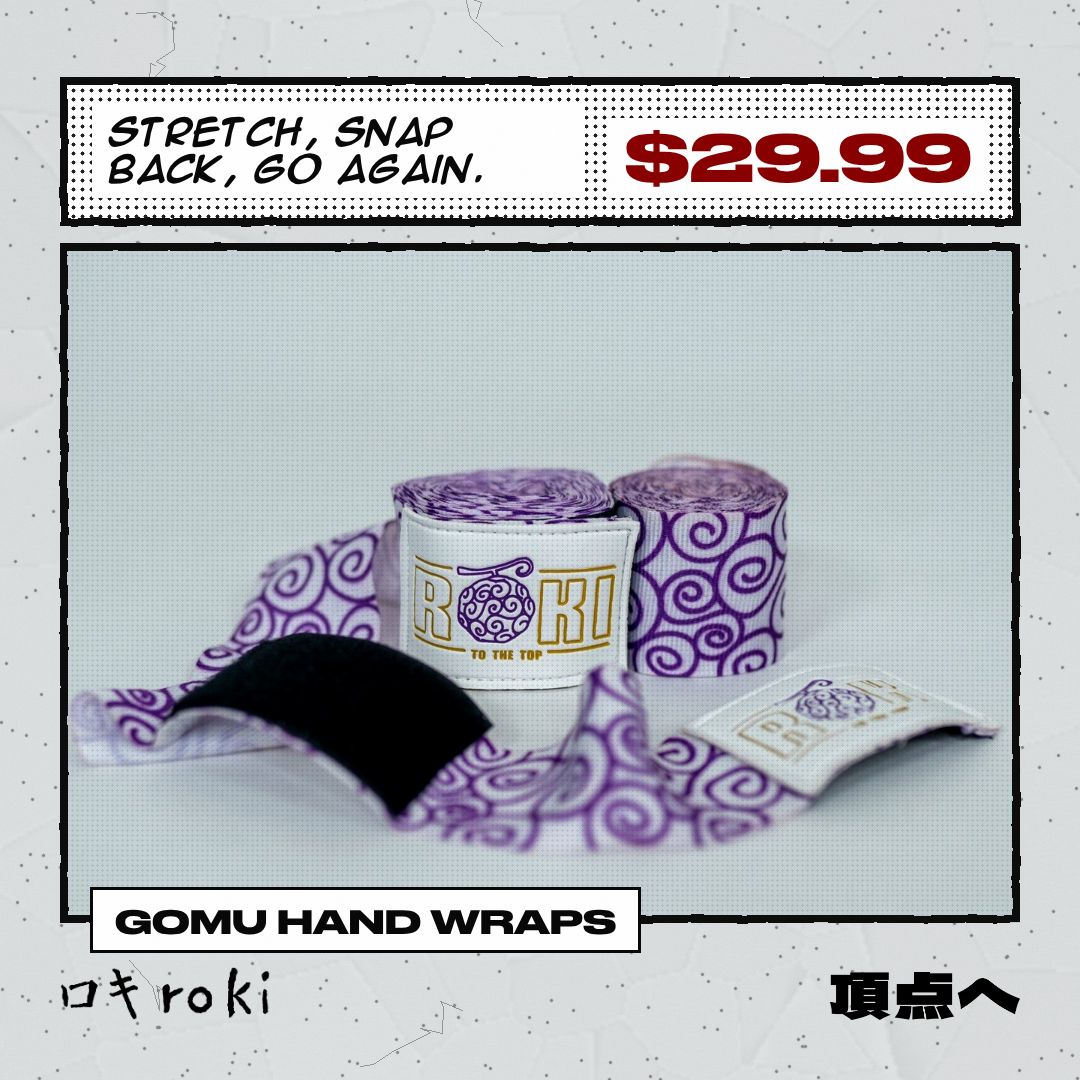
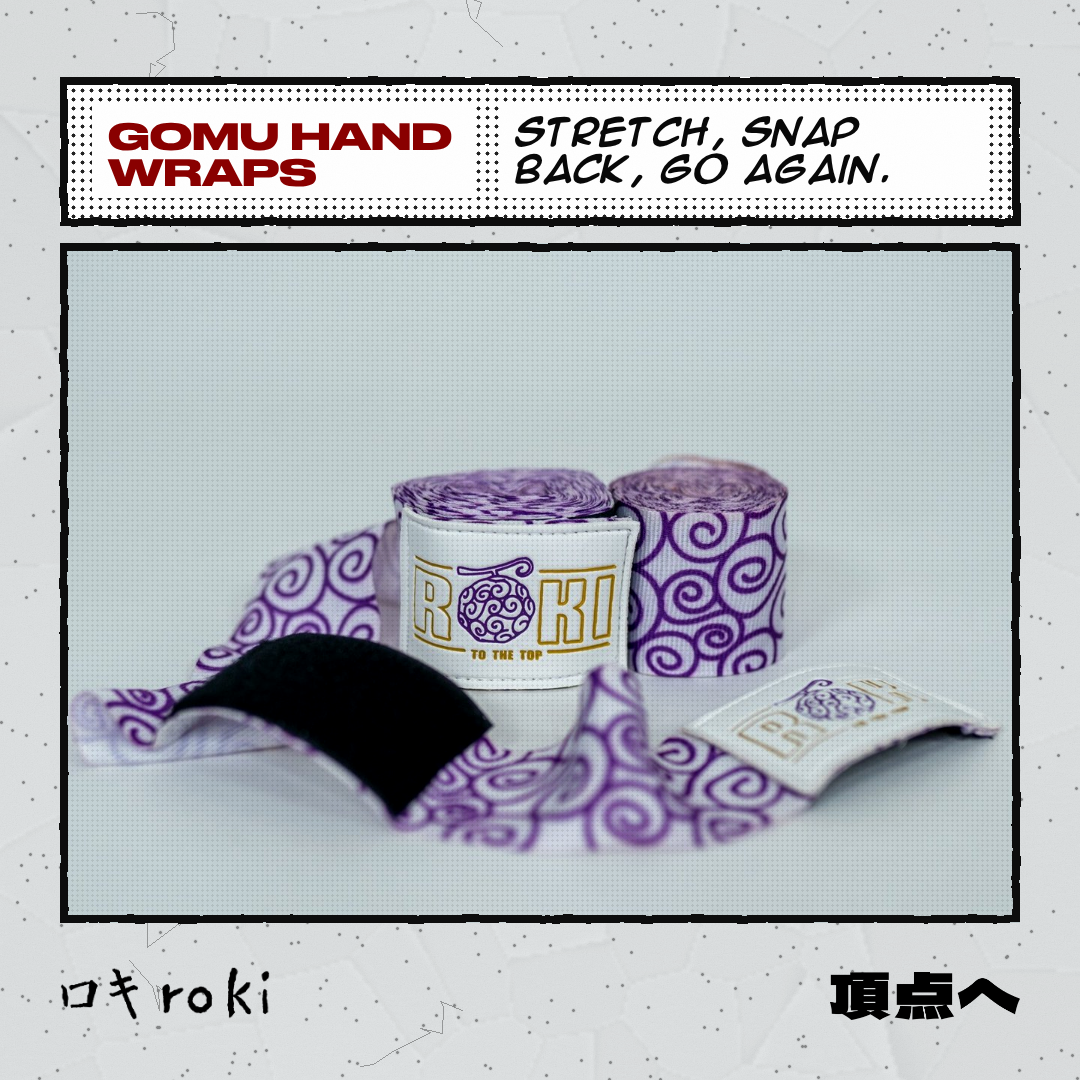
Revise AD-006 layout: product names replace prices
The carousel runs across currencies, so each price chip now carries the
product name in RokiRed, and the separate name caption on each hero photo
is removed so the name appears once. Motion and sound are pass-throughs
and are unchanged.

Claude-Session: https://claude.ai/code/session_012ToaCKfjMXucVavzk9q6An

Changed region(s): [[0.0917, 0.0917, 0.9167, 0.1833], [0.0611, 0.7944, 0.6111, 0.8861]]

diff --git a/ads/AD-006/layout/slides/slide-4.html b/ads/AD-006/layout/slides/slide-4.html
@@ -39,7 +39,9 @@ font:700 32px/1.02 var(--font-display);letter-spacing:0}
 .cell>.pn{position:relative;width:100%;height:100%}
 .pn.text{display:block;padding:28px 32px;height:auto!important}
 .pn.text .stackcopy{display:flex;flex-direction:column;gap:14px;align-items:flex-start}
-.pn.text .inline{display:flex;align-items:flex-end;justify-content:space-between;gap:24px}
+.pn.text .inline{display:flex;align-items:center;justify-content:space-between;gap:24px}
+.pn.text .inline .pname{max-width:540px}
+.chip.pname{font:700 36px/1 var(--font-display);color:var(--RokiRed);padding:12px 16px 8px}
 .cap{bottom:-30px;left:30px}
 .pn>img.ht{position:absolute;inset:0;width:100%;height:100%;object-fit:cover}
 
@@ -52,14 +54,14 @@ font:700 32px/1.02 var(--font-display);letter-spacing:0}
 #grainA{position:absolute;inset:0;z-index:1;pointer-events:none;mix-blend-mode:multiply;opacity:.12}
 body.dark .gr,body.dark .mark{filter:invert(1);mix-blend-mode:screen}
 body.dark #grainA{mix-blend-mode:screen;opacity:.08}
-.chip.price{color:var(--RokiRed)}.end .cta{color:var(--RokiRed)!important}</style></head><body style="--ground:var(--paper);--on:var(--ink);--panel:var(--ink);--pw:8px;--accent:var(--RokiRed);--cap-bg:var(--paper);--cap-on:var(--ink)"><svg width="0" height="0" style="position:absolute"><defs>
+.end .cta{color:var(--RokiRed)!important}</style></head><body style="--ground:var(--paper);--on:var(--ink);--panel:var(--ink);--pw:8px;--accent:var(--RokiRed);--cap-bg:var(--paper);--cap-on:var(--ink)"><svg width="0" height="0" style="position:absolute"><defs>
 <filter id="grainf" x="0" y="0" width="100%" height="100%"><feTurbulence type="fractalNoise" baseFrequency=".9" numOctaves="2" seed="7"/>
 <feColorMatrix type="saturate" values="0"/><feComponentTransfer><feFuncA type="table" tableValues="0 .55"/></feComponentTransfer></filter>
 <filter id="paperf" x="0" y="0" width="100%" height="100%"><feTurbulence type="fractalNoise" baseFrequency=".012" numOctaves="3" seed="4" result="n"/>
 <feDiffuseLighting in="n" surfaceScale="2" lighting-color="#fff"><feDistantLight azimuth="235" elevation="58"/></feDiffuseLighting></filter>
 <filter id="rough" x="-3%" y="-3%" width="106%" height="106%"><feTurbulence type="fractalNoise" baseFrequency=".035" numOctaves="3" seed="3" result="n"/>
 <feDisplacementMap in="SourceGraphic" in2="n" scale="3" xChannelSelector="R" yChannelSelector="G"/></filter>
-</defs></svg><img class="stock" src="../assets/grunge/paper/cool_0.jpg"><img class="gr" src="../assets/grunge/grunge/dust_1.png" style="opacity:0.4"><img class="mark" src="../assets/grunge/splatter/splat_1_red.png" style="left:850px;top:-130px;width:340px;height:340px;object-fit:contain;opacity:0.85"><div id="grainA" style="filter:url(#grainf)"></div><div class="stack"><div class="row"><div class="cell" style="width:562px;height:330px"><div class="pn"><img class="ph" src="../assets/shirt-1.jpg" style="object-position:50% 50%;"><div class="tone"></div></div><div class="cap" style="max-width:502px">KAMOGAWA BOXING GYM TRAINING SHIRT</div></div><div class="cell" style="width:374px;height:330px"><div class="pn"><img class="ph" src="../assets/shirt-2.jpg" style="object-position:55% 55%;transform:scale(1.4);transform-origin:55% 55%;"><div class="tone"></div></div></div></div><div class="row"><div class="cell" style="width:960px;height:220px"><div class="pn"><img class="ht" src="../assets/ht/shirt-life-sq.png"></div></div></div><div class="row"><div class="cell" style="width:960px"><div class="pn text screentone"><div class="inline"><span class="chip kick">For training days.</span><span class="chip price">$64.95</span></div></div></div></div></div><img class="logo" src="../assets/wordmark-black.png" style="left:60px;top:967px;width:210px"><img class="logo" src="../assets/choten-black.png" style="right:60px;top:972px;width:190px"><svg width="0" height="0" style="position:absolute"><filter id="roughf" x="-2%" y="-2%" width="104%" height="104%">
+</defs></svg><img class="stock" src="../assets/grunge/paper/cool_0.jpg"><img class="gr" src="../assets/grunge/grunge/dust_1.png" style="opacity:0.4"><img class="mark" src="../assets/grunge/splatter/splat_1_red.png" style="left:850px;top:-130px;width:340px;height:340px;object-fit:contain;opacity:0.85"><div id="grainA" style="filter:url(#grainf)"></div><div class="stack"><div class="row"><div class="cell" style="width:562px;height:330px"><div class="pn"><img class="ph" src="../assets/shirt-1.jpg" style="object-position:50% 50%;"><div class="tone"></div></div></div><div class="cell" style="width:374px;height:330px"><div class="pn"><img class="ph" src="../assets/shirt-2.jpg" style="object-position:55% 55%;transform:scale(1.4);transform-origin:55% 55%;"><div class="tone"></div></div></div></div><div class="row"><div class="cell" style="width:960px;height:220px"><div class="pn"><img class="ht" src="../assets/ht/shirt-life-sq.png"></div></div></div><div class="row"><div class="cell" style="width:960px"><div class="pn text screentone"><div class="inline"><span class="chip pname">KAMOGAWA BOXING GYM TRAINING SHIRT</span><span class="chip kick">For training days.</span></div></div></div></div></div><img class="logo" src="../assets/wordmark-black.png" style="left:60px;top:967px;width:210px"><img class="logo" src="../assets/choten-black.png" style="right:60px;top:972px;width:190px"><svg width="0" height="0" style="position:absolute"><filter id="roughf" x="-2%" y="-2%" width="104%" height="104%">
 <feTurbulence type="fractalNoise" baseFrequency=".04" numOctaves="3" seed="11" result="n"/>
 <feDisplacementMap in="SourceGraphic" in2="n" scale="3" xChannelSelector="R" yChannelSelector="G"/></filter></svg><div id="grain" style="filter:url(#grainf)"></div><script>
 function fit(el,maxW,lo=40,hi=140){while(hi-lo>1){const m=(lo+hi)>>1;el.style.fontSize=m+'px';el.scrollWidth<=maxW?lo=m:hi=m}el.style.fontSize=lo+'px'}

diff --git a/ads/AD-006/layout/slides/slide-6.html b/ads/AD-006/layout/slides/slide-6.html
@@ -39,7 +39,9 @@ font:700 32px/1.02 var(--font-display);letter-spacing:0}
 .cell>.pn{position:relative;width:100%;height:100%}
 .pn.text{display:block;padding:28px 32px;height:auto!important}
 .pn.text .stackcopy{display:flex;flex-direction:column;gap:14px;align-items:flex-start}
-.pn.text .inline{display:flex;align-items:flex-end;justify-content:space-between;gap:24px}
+.pn.text .inline{display:flex;align-items:center;justify-content:space-between;gap:24px}
+.pn.text .inline .pname{max-width:540px}
+.chip.pname{font:700 36px/1 var(--font-display);color:var(--RokiRed);padding:12px 16px 8px}
 .cap{bottom:-30px;left:30px}
 .pn>img.ht{position:absolute;inset:0;width:100%;height:100%;object-fit:cover}
 
@@ -52,14 +54,14 @@ font:700 32px/1.02 var(--font-display);letter-spacing:0}
 #grainA{position:absolute;inset:0;z-index:1;pointer-events:none;mix-blend-mode:multiply;opacity:.12}
 body.dark .gr,body.dark .mark{filter:invert(1);mix-blend-mode:screen}
 body.dark #grainA{mix-blend-mode:screen;opacity:.08}
-.chip.price{color:var(--RokiRed)}.end .cta{color:var(--RokiRed)!important}</style></head><body style="--ground:var(--studio-grey);--on:var(--ink);--panel:var(--ink);--pw:8px;--accent:var(--RokiRed);--cap-bg:var(--paper);--cap-on:var(--ink)"><svg width="0" height="0" style="position:absolute"><defs>
+.end .cta{color:var(--RokiRed)!important}</style></head><body style="--ground:var(--studio-grey);--on:var(--ink);--panel:var(--ink);--pw:8px;--accent:var(--RokiRed);--cap-bg:var(--paper);--cap-on:var(--ink)"><svg width="0" height="0" style="position:absolute"><defs>
 <filter id="grainf" x="0" y="0" width="100%" height="100%"><feTurbulence type="fractalNoise" baseFrequency=".9" numOctaves="2" seed="7"/>
 <feColorMatrix type="saturate" values="0"/><feComponentTransfer><feFuncA type="table" tableValues="0 .55"/></feComponentTransfer></filter>
 <filter id="paperf" x="0" y="0" width="100%" height="100%"><feTurbulence type="fractalNoise" baseFrequency=".012" numOctaves="3" seed="4" result="n"/>
 <feDiffuseLighting in="n" surfaceScale="2" lighting-color="#fff"><feDistantLight azimuth="235" elevation="58"/></feDiffuseLighting></filter>
 <filter id="rough" x="-3%" y="-3%" width="106%" height="106%"><feTurbulence type="fractalNoise" baseFrequency=".035" numOctaves="3" seed="3" result="n"/>
 <feDisplacementMap in="SourceGraphic" in2="n" scale="3" xChannelSelector="R" yChannelSelector="G"/></filter>
-</defs></svg><img class="stock" src="../assets/grunge/paper/cool_2.jpg"><img class="gr" src="../assets/grunge/grunge/dust_1.png" style="opacity:0.4"><img class="mark" src="../assets/grunge/splatter/splat_2_red.png" style="left:-110px;top:-130px;width:340px;height:340px;object-fit:contain;opacity:0.85"><div id="grainA" style="filter:url(#grainf)"></div><div class="stack"><div class="row"><div class="cell" style="width:960px;height:200px"><div class="pn"><img class="ht" src="../assets/ht/straps-life-sq.png"></div></div></div><div class="row"><div class="cell" style="width:960px;height:460px"><div class="pn"><img class="ph" src="../assets/straps-1.jpg" style="object-position:50% 50%;"><div class="tone"></div></div><div class="cap" style="max-width:640px">THE FRUIT LIFTING STRAPS</div></div></div><div class="row"><div class="cell" style="width:960px"><div class="pn text screentone"><div class="inline"><span class="chip kick">For lifters who refuse to let go.</span><span class="chip price">$35.00</span></div></div></div></div></div><img class="logo" src="../assets/wordmark-black.png" style="left:60px;top:967px;width:210px"><img class="logo" src="../assets/choten-black.png" style="right:60px;top:972px;width:190px"><svg width="0" height="0" style="position:absolute"><filter id="roughf" x="-2%" y="-2%" width="104%" height="104%">
+</defs></svg><img class="stock" src="../assets/grunge/paper/cool_2.jpg"><img class="gr" src="../assets/grunge/grunge/dust_1.png" style="opacity:0.4"><img class="mark" src="../assets/grunge/splatter/splat_2_red.png" style="left:-110px;top:-130px;width:340px;height:340px;object-fit:contain;opacity:0.85"><div id="grainA" style="filter:url(#grainf)"></div><div class="stack"><div class="row"><div class="cell" style="width:960px;height:200px"><div class="pn"><img class="ht" src="../assets/ht/straps-life-sq.png"></div></div></div><div class="row"><div class="cell" style="width:960px;height:460px"><div class="pn"><img class="ph" src="../assets/straps-1.jpg" style="object-position:50% 50%;"><div class="tone"></div></div></div></div><div class="row"><div class="cell" style="width:960px"><div class="pn text screentone"><div class="inline"><span class="chip pname">THE FRUIT LIFTING STRAPS</span><span class="chip kick">For lifters who refuse to let go.</span></div></div></div></div></div><img class="logo" src="../assets/wordmark-black.png" style="left:60px;top:967px;width:210px"><img class="logo" src="../assets/choten-black.png" style="right:60px;top:972px;width:190px"><svg width="0" height="0" style="position:absolute"><filter id="roughf" x="-2%" y="-2%" width="104%" height="104%">
 <feTurbulence type="fractalNoise" baseFrequency=".04" numOctaves="3" seed="11" result="n"/>
 <feDisplacementMap in="SourceGraphic" in2="n" scale="3" xChannelSelector="R" yChannelSelector="G"/></filter></svg><div id="grain" style="filter:url(#grainf)"></div><script>
 function fit(el,maxW,lo=40,hi=140){while(hi-lo>1){const m=(lo+hi)>>1;el.style.fontSize=m+'px';el.scrollWidth<=maxW?lo=m:hi=m}el.style.fontSize=lo+'px'}

diff --git a/ads/AD-006/layout/slides/slide-2.html b/ads/AD-006/layout/slides/slide-2.html
@@ -39,7 +39,9 @@ font:700 32px/1.02 var(--font-display);letter-spacing:0}
 .cell>.pn{position:relative;width:100%;height:100%}
 .pn.text{display:block;padding:28px 32px;height:auto!important}
 .pn.text .stackcopy{display:flex;flex-direction:column;gap:14px;align-items:flex-start}
-.pn.text .inline{display:flex;align-items:flex-end;justify-content:space-between;gap:24px}
+.pn.text .inline{display:flex;align-items:center;justify-content:space-between;gap:24px}
+.pn.text .inline .pname{max-width:540px}
+.chip.pname{font:700 36px/1 var(--font-display);color:var(--RokiRed);padding:12px 16px 8px}
 .cap{bottom:-30px;left:30px}
 .pn>img.ht{position:absolute;inset:0;width:100%;height:100%;object-fit:cover}
 
@@ -52,14 +54,14 @@ font:700 32px/1.02 var(--font-display);letter-spacing:0}
 #grainA{position:absolute;inset:0;z-index:1;pointer-events:none;mix-blend-mode:multiply;opacity:.12}
 body.dark .gr,body.dark .mark{filter:invert(1);mix-blend-mode:screen}
 body.dark #grainA{mix-blend-mode:screen;opacity:.08}
-.chip.price{color:var(--RokiRed)}.end .cta{color:var(--RokiRed)!important}</style></head><body class="dark" style="--ground:var(--ink);--on:var(--ink);--panel:var(--paper);--pw:8px;--accent:var(--signal-red);--cap-bg:var(--paper);--cap-on:var(--ink)"><svg width="0" height="0" style="position:absolute"><defs>
+.end .cta{color:var(--RokiRed)!important}</style></head><body class="dark" style="--ground:var(--ink);--on:var(--ink);--panel:var(--paper);--pw:8px;--accent:var(--signal-red);--cap-bg:var(--paper);--cap-on:var(--ink)"><svg width="0" height="0" style="position:absolute"><defs>
 <filter id="grainf" x="0" y="0" width="100%" height="100%"><feTurbulence type="fractalNoise" baseFrequency=".9" numOctaves="2" seed="7"/>
 <feColorMatrix type="saturate" values="0"/><feComponentTransfer><feFuncA type="table" tableValues="0 .55"/></feComponentTransfer></filter>
 <filter id="paperf" x="0" y="0" width="100%" height="100%"><feTurbulence type="fractalNoise" baseFrequency=".012" numOctaves="3" seed="4" result="n"/>
 <feDiffuseLighting in="n" surfaceScale="2" lighting-color="#fff"><feDistantLight azimuth="235" elevation="58"/></feDiffuseLighting></filter>
 <filter id="rough" x="-3%" y="-3%" width="106%" height="106%"><feTurbulence type="fractalNoise" baseFrequency=".035" numOctaves="3" seed="3" result="n"/>
 <feDisplacementMap in="SourceGraphic" in2="n" scale="3" xChannelSelector="R" yChannelSelector="G"/></filter>
-</defs></svg><img class="gr" src="../assets/grunge/grunge/dust_1.png" style="opacity:0.3"><img class="mark" src="../assets/grunge/splatter/splat_0.png" style="left:-110px;top:-130px;width:340px;height:340px;object-fit:contain;opacity:0.45"><div id="grainA" style="filter:url(#grainf)"></div><div class="stack"><div class="row"><div class="cell" style="width:960px;height:480px"><div class="pn"><img class="ph" src="../assets/kbg-wraps-2.jpg" style="object-position:50% 55%;"><div class="tone"></div></div><div class="cap" style="max-width:640px">KAMOGAWA BOXING GYM HAND WRAPS</div></div></div><div class="row"><div class="cell" style="width:960px;height:200px"><div class="pn"><img class="ht" src="../assets/ht/kbg-life-sq.png"></div></div></div><div class="row"><div class="cell" style="width:960px"><div class="pn text screentone"><div class="inline"><span class="chip kick">No. 1 seller. Built for boxers.</span><span class="chip price">$29.99</span></div></div></div></div></div><img class="logo" src="../assets/wordmark-white.png" style="left:60px;top:967px;width:210px"><img class="logo" src="../assets/choten-white.png" style="right:60px;top:972px;width:190px"><svg width="0" height="0" style="position:absolute"><filter id="roughf" x="-2%" y="-2%" width="104%" height="104%">
+</defs></svg><img class="gr" src="../assets/grunge/grunge/dust_1.png" style="opacity:0.3"><img class="mark" src="../assets/grunge/splatter/splat_0.png" style="left:-110px;top:-130px;width:340px;height:340px;object-fit:contain;opacity:0.45"><div id="grainA" style="filter:url(#grainf)"></div><div class="stack"><div class="row"><div class="cell" style="width:960px;height:480px"><div class="pn"><img class="ph" src="../assets/kbg-wraps-2.jpg" style="object-position:50% 55%;"><div class="tone"></div></div></div></div><div class="row"><div class="cell" style="width:960px;height:200px"><div class="pn"><img class="ht" src="../assets/ht/kbg-life-sq.png"></div></div></div><div class="row"><div class="cell" style="width:960px"><div class="pn text screentone"><div class="inline"><span class="chip pname">KAMOGAWA BOXING GYM HAND WRAPS</span><span class="chip kick">No. 1 seller. Built for boxers.</span></div></div></div></div></div><img class="logo" src="../assets/wordmark-white.png" style="left:60px;top:967px;width:210px"><img class="logo" src="../assets/choten-white.png" style="right:60px;top:972px;width:190px"><svg width="0" height="0" style="position:absolute"><filter id="roughf" x="-2%" y="-2%" width="104%" height="104%">
 <feTurbulence type="fractalNoise" baseFrequency=".04" numOctaves="3" seed="11" result="n"/>
 <feDisplacementMap in="SourceGraphic" in2="n" scale="3" xChannelSelector="R" yChannelSelector="G"/></filter></svg><div id="grain" style="filter:url(#grainf)"></div><script>
 function fit(el,maxW,lo=40,hi=140){while(hi-lo>1){const m=(lo+hi)>>1;el.style.fontSize=m+'px';el.scrollWidth<=maxW?lo=m:hi=m}el.style.fontSize=lo+'px'}

diff --git a/ads/AD-006/layout/slides/slide-5.html b/ads/AD-006/layout/slides/slide-5.html
@@ -39,7 +39,9 @@ font:700 32px/1.02 var(--font-display);letter-spacing:0}
 .cell>.pn{position:relative;width:100%;height:100%}
 .pn.text{display:block;padding:28px 32px;height:auto!important}
 .pn.text .stackcopy{display:flex;flex-direction:column;gap:14px;align-items:flex-start}
-.pn.text .inline{display:flex;align-items:flex-end;justify-content:space-between;gap:24px}
+.pn.text .inline{display:flex;align-items:center;justify-content:space-between;gap:24px}
+.pn.text .inline .pname{max-width:540px}
+.chip.pname{font:700 36px/1 var(--font-display);color:var(--RokiRed);padding:12px 16px 8px}
 .cap{bottom:-30px;left:30px}
 .pn>img.ht{position:absolute;inset:0;width:100%;height:100%;object-fit:cover}
 
@@ -52,14 +54,14 @@ font:700 32px/1.02 var(--font-display);letter-spacing:0}
 #grainA{position:absolute;inset:0;z-index:1;pointer-events:none;mix-blend-mode:multiply;opacity:.12}
 body.dark .gr,body.dark .mark{filter:invert(1);mix-blend-mode:screen}
 body.dark #grainA{mix-blend-mode:screen;opacity:.08}
-.chip.price{color:var(--RokiRed)}.end .cta{color:var(--RokiRed)!important}</style></head><body class="dark" style="--ground:var(--ink);--on:var(--ink);--panel:var(--paper);--pw:8px;--accent:var(--signal-red);--cap-bg:var(--paper);--cap-on:var(--ink)"><svg width="0" height="0" style="position:absolute"><defs>
+.end .cta{color:var(--RokiRed)!important}</style></head><body class="dark" style="--ground:var(--ink);--on:var(--ink);--panel:var(--paper);--pw:8px;--accent:var(--signal-red);--cap-bg:var(--paper);--cap-on:var(--ink)"><svg width="0" height="0" style="position:absolute"><defs>
 <filter id="grainf" x="0" y="0" width="100%" height="100%"><feTurbulence type="fractalNoise" baseFrequency=".9" numOctaves="2" seed="7"/>
 <feColorMatrix type="saturate" values="0"/><feComponentTransfer><feFuncA type="table" tableValues="0 .55"/></feComponentTransfer></filter>
 <filter id="paperf" x="0" y="0" width="100%" height="100%"><feTurbulence type="fractalNoise" baseFrequency=".012" numOctaves="3" seed="4" result="n"/>
 <feDiffuseLighting in="n" surfaceScale="2" lighting-color="#fff"><feDistantLight azimuth="235" elevation="58"/></feDiffuseLighting></filter>
 <filter id="rough" x="-3%" y="-3%" width="106%" height="106%"><feTurbulence type="fractalNoise" baseFrequency=".035" numOctaves="3" seed="3" result="n"/>
 <feDisplacementMap in="SourceGraphic" in2="n" scale="3" xChannelSelector="R" yChannelSelector="G"/></filter>
-</defs></svg><img class="gr" src="../assets/grunge/grunge/dust_0.png" style="opacity:0.3"><div id="grainA" style="filter:url(#grainf)"></div><div class="stack"><div class="row"><div class="cell" style="width:562px;height:640px"><div class="pn"><img class="ph" src="../assets/shorts-1.jpg" style="object-position:50% 50%;"><div class="tone"></div></div><div class="cap" style="max-width:502px">IPPO FIGHT SHORTS</div></div><div class="cell" style="width:374px;height:640px"><div class="pn"><img class="ph" src="../assets/shorts-2.jpg" style="object-position:50% 55%;transform:scale(1.3);transform-origin:50% 55%;"><div class="tone"></div></div></div></div><div class="row"><div class="cell" style="width:960px"><div class="pn text screentone"><div class="inline"><span class="chip kick">Made for fight training.</span><span class="chip price">$99.95</span></div></div></div></div></div><img class="logo" src="../assets/wordmark-white.png" style="left:60px;top:967px;width:210px"><img class="logo" src="../assets/choten-white.png" style="right:60px;top:972px;width:190px"><svg width="0" height="0" style="position:absolute"><filter id="roughf" x="-2%" y="-2%" width="104%" height="104%">
+</defs></svg><img class="gr" src="../assets/grunge/grunge/dust_0.png" style="opacity:0.3"><div id="grainA" style="filter:url(#grainf)"></div><div class="stack"><div class="row"><div class="cell" style="width:562px;height:640px"><div class="pn"><img class="ph" src="../assets/shorts-1.jpg" style="object-position:50% 50%;"><div class="tone"></div></div></div><div class="cell" style="width:374px;height:640px"><div class="pn"><img class="ph" src="../assets/shorts-2.jpg" style="object-position:50% 55%;transform:scale(1.3);transform-origin:50% 55%;"><div class="tone"></div></div></div></div><div class="row"><div class="cell" style="width:960px"><div class="pn text screentone"><div class="inline"><span class="chip pname">IPPO FIGHT SHORTS</span><span class="chip kick">Made for fight training.</span></div></div></div></div></div><img class="logo" src="../assets/wordmark-white.png" style="left:60px;top:967px;width:210px"><img class="logo" src="../assets/choten-white.png" style="right:60px;top:972px;width:190px"><svg width="0" height="0" style="position:absolute"><filter id="roughf" x="-2%" y="-2%" width="104%" height="104%">
 <feTurbulence type="fractalNoise" baseFrequency=".04" numOctaves="3" seed="11" result="n"/>
 <feDisplacementMap in="SourceGraphic" in2="n" scale="3" xChannelSelector="R" yChannelSelector="G"/></filter></svg><div id="grain" style="filter:url(#grainf)"></div><script>
 function fit(el,maxW,lo=40,hi=140){while(hi-lo>1){const m=(lo+hi)>>1;el.style.fontSize=m+'px';el.scrollWidth<=maxW?lo=m:hi=m}el.style.fontSize=lo+'px'}

diff --git a/ads/AD-006/layout/slides/slide-7.html b/ads/AD-006/layout/slides/slide-7.html
@@ -39,7 +39,9 @@ font:700 32px/1.02 var(--font-display);letter-spacing:0}
 .cell>.pn{position:relative;width:100%;height:100%}
 .pn.text{display:block;padding:28px 32px;height:auto!important}
 .pn.text .stackcopy{display:flex;flex-direction:column;gap:14px;align-items:flex-start}
-.pn.text .inline{display:flex;align-items:flex-end;justify-content:space-between;gap:24px}
+.pn.text .inline{display:flex;align-items:center;justify-content:space-between;gap:24px}
+.pn.text .inline .pname{max-width:540px}
+.chip.pname{font:700 36px/1 var(--font-display);color:var(--RokiRed);padding:12px 16px 8px}
 .cap{bottom:-30px;left:30px}
 .pn>img.ht{position:absolute;inset:0;width:100%;height:100%;object-fit:cover}
 
@@ -52,14 +54,14 @@ font:700 32px/1.02 var(--font-display);letter-spacing:0}
 #grainA{position:absolute;inset:0;z-index:1;pointer-events:none;mix-blend-mode:multiply;opacity:.12}
 body.dark .gr,body.dark .mark{filter:invert(1);mix-blend-mode:screen}
 body.dark #grainA{mix-blend-mode:screen;opacity:.08}
-.chip.price{color:var(--RokiRed)}.end .cta{color:var(--RokiRed)!important}</style></head><body style="--ground:var(--paper);--on:var(--ink);--panel:var(--ink);--pw:8px;--accent:var(--RokiRed);--cap-bg:var(--paper);--cap-on:var(--ink)"><svg width="0" height="0" style="position:absolute"><defs>
+.end .cta{color:var(--RokiRed)!important}</style></head><body style="--ground:var(--paper);--on:var(--ink);--panel:var(--ink);--pw:8px;--accent:var(--RokiRed);--cap-bg:var(--paper);--cap-on:var(--ink)"><svg width="0" height="0" style="position:absolute"><defs>
 <filter id="grainf" x="0" y="0" width="100%" height="100%"><feTurbulence type="fractalNoise" baseFrequency=".9" numOctaves="2" seed="7"/>
 <feColorMatrix type="saturate" values="0"/><feComponentTransfer><feFuncA type="table" tableValues="0 .55"/></feComponentTransfer></filter>
 <filter id="paperf" x="0" y="0" width="100%" height="100%"><feTurbulence type="fractalNoise" baseFrequency=".012" numOctaves="3" seed="4" result="n"/>
 <feDiffuseLighting in="n" surfaceScale="2" lighting-color="#fff"><feDistantLight azimuth="235" elevation="58"/></feDiffuseLighting></filter>
 <filter id="rough" x="-3%" y="-3%" width="106%" height="106%"><feTurbulence type="fractalNoise" baseFrequency=".035" numOctaves="3" seed="3" result="n"/>
 <feDisplacementMap in="SourceGraphic" in2="n" scale="3" xChannelSelector="R" yChannelSelector="G"/></filter>
-</defs></svg><img class="stock" src="../assets/grunge/paper/cool_0.jpg"><img class="gr" src="../assets/grunge/grunge/dust_0.png" style="opacity:0.4"><div id="grainA" style="filter:url(#grainf)"></div><div class="stack"><div class="row"><div class="cell" style="width:328px;height:260px"><div class="pn"><img class="ht" src="../assets/ht/muki-life-sq.png"></div></div><div class="cell" style="width:608px"><div class="pn text screentone"><div class="stackcopy"><span class="chip kick">Muki Muki mode: activated.</span><span class="chip price">$64.95</span></div></div></div></div><div class="row"><div class="cell" style="width:960px;height:560px"><div class="pn"><img class="ph" src="../assets/muki-2.jpg" style="object-position:50% 50%;"><div class="tone"></div></div><div class="cap" style="max-width:640px">MUKI MUKI PUMP COVER</div></div></div></div><img class="logo" src="../assets/wordmark-black.png" style="left:60px;top:967px;width:210px"><img class="logo" src="../assets/choten-black.png" style="right:60px;top:972px;width:190px"><svg width="0" height="0" style="position:absolute"><filter id="roughf" x="-2%" y="-2%" width="104%" height="104%">
+</defs></svg><img class="stock" src="../assets/grunge/paper/cool_0.jpg"><img class="gr" src="../assets/grunge/grunge/dust_0.png" style="opacity:0.4"><div id="grainA" style="filter:url(#grainf)"></div><div class="stack"><div class="row"><div class="cell" style="width:328px;height:260px"><div class="pn"><img class="ht" src="../assets/ht/muki-life-sq.png"></div></div><div class="cell" style="width:608px"><div class="pn text screentone"><div class="stackcopy"><span class="chip pname">MUKI MUKI PUMP COVER</span><span class="chip kick">Muki Muki mode: activated.</span></div></div></div></div><div class="row"><div class="cell" style="width:960px;height:560px"><div class="pn"><img class="ph" src="../assets/muki-2.jpg" style="object-position:50% 50%;"><div class="tone"></div></div></div></div></div><img class="logo" src="../assets/wordmark-black.png" style="left:60px;top:967px;width:210px"><img class="logo" src="../assets/choten-black.png" style="right:60px;top:972px;width:190px"><svg width="0" height="0" style="position:absolute"><filter id="roughf" x="-2%" y="-2%" width="104%" height="104%">
 <feTurbulence type="fractalNoise" baseFrequency=".04" numOctaves="3" seed="11" result="n"/>
 <feDisplacementMap in="SourceGraphic" in2="n" scale="3" xChannelSelector="R" yChannelSelector="G"/></filter></svg><div id="grain" style="filter:url(#grainf)"></div><script>
 function fit(el,maxW,lo=40,hi=140){while(hi-lo>1){const m=(lo+hi)>>1;el.style.fontSize=m+'px';el.scrollWidth<=maxW?lo=m:hi=m}el.style.fontSize=lo+'px'}

diff --git a/ads/AD-006/layout/slides/slide-3.html b/ads/AD-006/layout/slides/slide-3.html
@@ -39,7 +39,9 @@ font:700 32px/1.02 var(--font-display);letter-spacing:0}
 .cell>.pn{position:relative;width:100%;height:100%}
 .pn.text{display:block;padding:28px 32px;height:auto!important}
 .pn.text .stackcopy{display:flex;flex-direction:column;gap:14px;align-items:flex-start}
-.pn.text .inline{display:flex;align-items:flex-end;justify-content:space-between;gap:24px}
+.pn.text .inline{display:flex;align-items:center;justify-content:space-between;gap:24px}
+.pn.text .inline .pname{max-width:540px}
+.chip.pname{font:700 36px/1 var(--font-display);color:var(--RokiRed);padding:12px 16px 8px}
 .cap{bottom:-30px;left:30px}
 .pn>img.ht{position:absolute;inset:0;width:100%;height:100%;object-fit:cover}
 
@@ -52,14 +54,14 @@ font:700 32px/1.02 var(--font-display);letter-spacing:0}
 #grainA{position:absolute;inset:0;z-index:1;pointer-events:none;mix-blend-mode:multiply;opacity:.12}
 body.dark .gr,body.dark .mark{filter:invert(1);mix-blend-mode:screen}
 body.dark #grainA{mix-blend-mode:screen;opacity:.08}
-.chip.price{color:var(--RokiRed)}.end .cta{color:var(--RokiRed)!important}</style></head><body style="--ground:var(--studio-grey);--on:var(--ink);--panel:var(--ink);--pw:8px;--accent:var(--RokiRed);--cap-bg:var(--paper);--cap-on:var(--ink)"><svg width="0" height="0" style="position:absolute"><defs>
+.end .cta{color:var(--RokiRed)!important}</style></head><body style="--ground:var(--studio-grey);--on:var(--ink);--panel:var(--ink);--pw:8px;--accent:var(--RokiRed);--cap-bg:var(--paper);--cap-on:var(--ink)"><svg width="0" height="0" style="position:absolute"><defs>
 <filter id="grainf" x="0" y="0" width="100%" height="100%"><feTurbulence type="fractalNoise" baseFrequency=".9" numOctaves="2" seed="7"/>
 <feColorMatrix type="saturate" values="0"/><feComponentTransfer><feFuncA type="table" tableValues="0 .55"/></feComponentTransfer></filter>
 <filter id="paperf" x="0" y="0" width="100%" height="100%"><feTurbulence type="fractalNoise" baseFrequency=".012" numOctaves="3" seed="4" result="n"/>
 <feDiffuseLighting in="n" surfaceScale="2" lighting-color="#fff"><feDistantLight azimuth="235" elevation="58"/></feDiffuseLighting></filter>
 <filter id="rough" x="-3%" y="-3%" width="106%" height="106%"><feTurbulence type="fractalNoise" baseFrequency=".035" numOctaves="3" seed="3" result="n"/>
 <feDisplacementMap in="SourceGraphic" in2="n" scale="3" xChannelSelector="R" yChannelSelector="G"/></filter>
-</defs></svg><img class="stock" src="../assets/grunge/paper/cool_2.jpg"><img class="gr" src="../assets/grunge/grunge/dust_0.png" style="opacity:0.4"><div id="grainA" style="filter:url(#grainf)"></div><div class="stack"><div class="row"><div class="cell" style="width:960px"><div class="pn text screentone"><div class="inline"><span class="chip kick">Stretch, snap back, go again.</span><span class="chip price">$29.99</span></div></div></div></div><div class="row"><div class="cell" style="width:960px;height:680px"><div class="pn"><img class="ph" src="../assets/gomu-2.jpg" style="object-position:50% 50%;"><div class="tone"></div></div><div class="cap" style="max-width:640px">GOMU HAND WRAPS</div></div></div></div><img class="logo" src="../assets/wordmark-black.png" style="left:60px;top:967px;width:210px"><img class="logo" src="../assets/choten-black.png" style="right:60px;top:972px;width:190px"><svg width="0" height="0" style="position:absolute"><filter id="roughf" x="-2%" y="-2%" width="104%" height="104%">
+</defs></svg><img class="stock" src="../assets/grunge/paper/cool_2.jpg"><img class="gr" src="../assets/grunge/grunge/dust_0.png" style="opacity:0.4"><div id="grainA" style="filter:url(#grainf)"></div><div class="stack"><div class="row"><div class="cell" style="width:960px"><div class="pn text screentone"><div class="inline"><span class="chip pname">GOMU HAND WRAPS</span><span class="chip kick">Stretch, snap back, go again.</span></div></div></div></div><div class="row"><div class="cell" style="width:960px;height:680px"><div class="pn"><img class="ph" src="../assets/gomu-2.jpg" style="object-position:50% 50%;"><div class="tone"></div></div></div></div></div><img class="logo" src="../assets/wordmark-black.png" style="left:60px;top:967px;width:210px"><img class="logo" src="../assets/choten-black.png" style="right:60px;top:972px;width:190px"><svg width="0" height="0" style="position:absolute"><filter id="roughf" x="-2%" y="-2%" width="104%" height="104%">
 <feTurbulence type="fractalNoise" baseFrequency=".04" numOctaves="3" seed="11" result="n"/>
 <feDisplacementMap in="SourceGraphic" in2="n" scale="3" xChannelSelector="R" yChannelSelector="G"/></filter></svg><div id="grain" style="filter:url(#grainf)"></div><script>
 function fit(el,maxW,lo=40,hi=140){while(hi-lo>1){const m=(lo+hi)>>1;el.style.fontSize=m+'px';el.scrollWidth<=maxW?lo=m:hi=m}el.style.fontSize=lo+'px'}

diff --git a/ads/AD-006/layout/slides/slide-8.html b/ads/AD-006/layout/slides/slide-8.html
@@ -39,7 +39,9 @@ font:700 32px/1.02 var(--font-display);letter-spacing:0}
 .cell>.pn{position:relative;width:100%;height:100%}
 .pn.text{display:block;padding:28px 32px;height:auto!important}
 .pn.text .stackcopy{display:flex;flex-direction:column;gap:14px;align-items:flex-start}
-.pn.text .inline{display:flex;align-items:flex-end;justify-content:space-between;gap:24px}
+.pn.text .inline{display:flex;align-items:center;justify-content:space-between;gap:24px}
+.pn.text .inline .pname{max-width:540px}
+.chip.pname{font:700 36px/1 var(--font-display);color:var(--RokiRed);padding:12px 16px 8px}
 .cap{bottom:-30px;left:30px}
 .pn>img.ht{position:absolute;inset:0;width:100%;height:100%;object-fit:cover}
 
@@ -52,7 +54,7 @@ font:700 32px/1.02 var(--font-display);letter-spacing:0}
 #grainA{position:absolute;inset:0;z-index:1;pointer-events:none;mix-blend-mode:multiply;opacity:.12}
 body.dark .gr,body.dark .mark{filter:invert(1);mix-blend-mode:screen}
 body.dark #grainA{mix-blend-mode:screen;opacity:.08}
-.chip.price{color:var(--RokiRed)}.end .cta{color:var(--RokiRed)!important}</style></head><body class="dark" style="--ground:var(--ink);--on:var(--ink);--panel:var(--paper);--pw:8px;--accent:var(--signal-red);--cap-bg:var(--paper);--cap-on:var(--ink)"><svg width="0" height="0" style="position:absolute"><defs>
+.end .cta{color:var(--RokiRed)!important}</style></head><body class="dark" style="--ground:var(--ink);--on:var(--ink);--panel:var(--paper);--pw:8px;--accent:var(--signal-red);--cap-bg:var(--paper);--cap-on:var(--ink)"><svg width="0" height="0" style="position:absolute"><defs>
 <filter id="grainf" x="0" y="0" width="100%" height="100%"><feTurbulence type="fractalNoise" baseFrequency=".9" numOctaves="2" seed="7"/>
 <feColorMatrix type="saturate" values="0"/><feComponentTransfer><feFuncA type="table" tableValues="0 .55"/></feComponentTransfer></filter>
 <filter id="paperf" x="0" y="0" width="100%" height="100%"><feTurbulence type="fractalNoise" baseFrequency=".012" numOctaves="3" seed="4" result="n"/>

diff --git a/ads/AD-006/layout/slides/slide-1.html b/ads/AD-006/layout/slides/slide-1.html
@@ -39,7 +39,9 @@ font:700 32px/1.02 var(--font-display);letter-spacing:0}
 .cell>.pn{position:relative;width:100%;height:100%}
 .pn.text{display:block;padding:28px 32px;height:auto!important}
 .pn.text .stackcopy{display:flex;flex-direction:column;gap:14px;align-items:flex-start}
-.pn.text .inline{display:flex;align-items:flex-end;justify-content:space-between;gap:24px}
+.pn.text .inline{display:flex;align-items:center;justify-content:space-between;gap:24px}
+.pn.text .inline .pname{max-width:540px}
+.chip.pname{font:700 36px/1 var(--font-display);color:var(--RokiRed);padding:12px 16px 8px}
 .cap{bottom:-30px;left:30px}
 .pn>img.ht{position:absolute;inset:0;width:100%;height:100%;object-fit:cover}
 
@@ -52,7 +54,7 @@ font:700 32px/1.02 var(--font-display);letter-spacing:0}
 #grainA{position:absolute;inset:0;z-index:1;pointer-events:none;mix-blend-mode:multiply;opacity:.12}
 body.dark .gr,body.dark .mark{filter:invert(1);mix-blend-mode:screen}
 body.dark #grainA{mix-blend-mode:screen;opacity:.08}
-.chip.price{color:var(--RokiRed)}.end .cta{color:var(--RokiRed)!important}</style></head><body style="--ground:var(--paper);--on:var(--ink);--panel:var(--ink);--pw:8px;--accent:var(--RokiRed);--cap-bg:var(--paper);--cap-on:var(--ink)"><svg width="0" height="0" style="position:absolute"><defs>
+.end .cta{color:var(--RokiRed)!important}</style></head><body style="--ground:var(--paper);--on:var(--ink);--panel:var(--ink);--pw:8px;--accent:var(--RokiRed);--cap-bg:var(--paper);--cap-on:var(--ink)"><svg width="0" height="0" style="position:absolute"><defs>
 <filter id="grainf" x="0" y="0" width="100%" height="100%"><feTurbulence type="fractalNoise" baseFrequency=".9" numOctaves="2" seed="7"/>
 <feColorMatrix type="saturate" values="0"/><feComponentTransfer><feFuncA type="table" tableValues="0 .55"/></feComponentTransfer></filter>
 <filter id="paperf" x="0" y="0" width="100%" height="100%"><feTurbulence type="fractalNoise" baseFrequency=".012" numOctaves="3" seed="4" result="n"/>

diff --git a/ads/AD-006/layout/src/build_h4.py b/ads/AD-006/layout/src/build_h4.py
@@ -15,7 +15,9 @@ FLOW_CSS = """
 .cell>.pn{position:relative;width:100%;height:100%}
 .pn.text{display:block;padding:28px 32px;height:auto!important}
 .pn.text .stackcopy{display:flex;flex-direction:column;gap:14px;align-items:flex-start}
-.pn.text .inline{display:flex;align-items:flex-end;justify-content:space-between;gap:24px}
+.pn.text .inline{display:flex;align-items:center;justify-content:space-between;gap:24px}
+.pn.text .inline .pname{max-width:540px}
+.chip.pname{font:700 36px/1 var(--font-display);color:var(--RokiRed);padding:12px 16px 8px}
 .cap{bottom:-30px;left:30px}
 .pn>img.ht{position:absolute;inset:0;width:100%;height:100%;object-fit:cover}
 """
@@ -35,10 +37,11 @@ def copy_html(kind, wide):
         return ('<div class="end"><div class="big" style="filter:url(#rough)">FIND<br>YOURS.</div>'
                 '<div class="cta">SHOP NOW</div><div class="url">rokiovertime.com</div></div>')
     p = PRODUCTS[kind]
+    # no prices: the ad runs across currencies, so the product name takes the price's place
+    name = f'<span class="chip pname">{p["name"]}</span>'
     line = f'<span class="chip kick">{html.escape(p["line"])}</span>'
-    price = f'<span class="chip price">{p["price"]}</span>'
-    # a wide panel sets line and price on one row; a narrow one stacks them
-    return f'<div class="{"inline" if wide else "stackcopy"}">{line}{price}</div>'
+    # a wide panel sets name and line on one row; a narrow one stacks them
+    return f'<div class="{"inline" if wide else "stackcopy"}">{name}{line}</div>'
 
 
 def cell_html(kind, c, w, h, first_hero):
@@ -53,11 +56,8 @@ def cell_html(kind, c, w, h, first_hero):
         return f'<div class="cell" style="{style}"><div class="pn"><img class="ht" src="../../assets/ht/{c[3:]}.png"></div></div>', False
     if c.endswith("-strip") and kind != "shirt":
         return f'<div class="cell" style="{style}"><div class="pn speed"></div></div>', False
-    cap = ""
     is_hero = c.endswith("-hero") and first_hero and kind in PRODUCTS
-    if is_hero:
-        cap = f'<div class="cap" style="max-width:{min(w - 60, 640)}px">{PRODUCTS[kind]["name"]}</div>'
-    return f'<div class="cell" style="{style}"><div class="pn">{photo(c)}</div>{cap}</div>', is_hero
+    return f'<div class="cell" style="{style}"><div class="pn">{photo(c)}</div></div>', is_hero
 
 
 def build(kind, stack):

diff --git a/ads/AD-006/layout/src/build_sq.py b/ads/AD-006/layout/src/build_sq.py
@@ -33,7 +33,7 @@ def lineup_sq(w, h, v):
 
 
 build_h4.lineup = lineup_sq
-RED_CSS = ".chip.price{color:var(--RokiRed)}.end .cta{color:var(--RokiRed)!important}"
+RED_CSS = ".end .cta{color:var(--RokiRed)!important}"
 
 d = OUT / "SQ"
 d.mkdir(parents=True, exist_ok=True)

diff --git a/ads/AD-006/layout/README.md b/ads/AD-006/layout/README.md
@@ -1,6 +1,6 @@
 # AD-006 Best Sellers Static Carousel: approved layout
 
-Brief BR-006, approved by Shan on 27 Oct 2026. This is the source for every later stage.
+Brief BR-006, approved by Shan on 27 Oct 2026, then revised on 28 Oct 2026 to remove prices. This is the source for every later stage.
 
 - `slides/slide-1.png` to `slide-8.png`: the approved finished slides, 1080 × 1080.
 - `slides/slide-*.html`: their sources. Open one in Chromium and it renders the same as the PNG, pixel for pixel. Rendering waits on `document.body.dataset.ready === '1'`.
@@ -18,12 +18,12 @@ Brief BR-006, approved by Shan on 27 Oct 2026. This is the source for every late
 | # | Ground | Content |
 |---|---|---|
 | 1 | paper | Hook "THE GEAR PEOPLE KEEP COMING BACK FOR." over a line-up of all six flat lays, with wrap and shorts detail panels |
-| 2 | ink | Kamogawa Boxing Gym Hand Wraps, RokiRed halftone strip of a wrapped fist, $29.99 |
-| 3 | studio grey | Gomu Hand Wraps, $29.99 |
-| 4 | paper | Kamogawa Boxing Gym Training Shirt: chest print and sleeve tag, RokiRed halftone of the KBG back print, $64.95 |
-| 5 | ink | Ippo Fight Shorts: front and back, $99.95 |
-| 6 | studio grey | The Fruit Lifting Straps, RokiRed halftone of a strap grip, $35.00 |
-| 7 | paper | Muki Muki Pump Cover: back print, RokiRed halftone of the print on a model, $64.95 |
+| 2 | ink | Kamogawa Boxing Gym Hand Wraps, RokiRed halftone strip of a wrapped fist |
+| 3 | studio grey | Gomu Hand Wraps |
+| 4 | paper | Kamogawa Boxing Gym Training Shirt: chest print and sleeve tag, RokiRed halftone of the KBG back print |
+| 5 | ink | Ippo Fight Shorts: front and back |
+| 6 | studio grey | The Fruit Lifting Straps, RokiRed halftone of a strap grip |
+| 7 | paper | Muki Muki Pump Cover: back print, RokiRed halftone of the print on a model |
 | 8 | ink | End card: six product tiles, "FIND YOURS.", SHOP NOW, rokiovertime.com |
 
 ## Overrides and open items (Shan's instructions, this ad only)
@@ -31,7 +31,7 @@ Brief BR-006, approved by Shan on 27 Oct 2026. This is the source for every late
 - **Static carousel, not a motion video.** Motion Build, Sound and Render need the same override, or the ad leaves the pipeline here.
 - **Format 1:1 (1080 × 1080).** BR-006 says Story 1080x1920, and the Format dropdown has no 1:1 option. A confirmed brief isn't edited in place, so this needs deciding before Motion Build or Render read the brief's format.
 - **Model shots.** The brief said flat lays only. Model shots are used in the four halftone lifestyle panels, as mood images. Every product hero is still a clean Shopify flat lay.
-- **Colour.** The ground rotates paper, ink, studio grey. Accents are RokiRed on light grounds and signal-red on ink. The prices use RokiRed on white chips, so no RokiRed text sits on ink.
-- **Prices** come from Shopify (AUD) on 27 Oct 2026. Recheck them before export.
+- **Colour.** The ground rotates paper, ink, studio grey. Accents are RokiRed on light grounds and signal-red on ink. The product names use RokiRed on white chips, so no RokiRed text sits on ink.
+- **No prices (revision, 28 Oct 2026).** The ad runs across currencies, so each price was replaced by the product name in RokiRed. The separate name caption boxes on the hero photos were removed, so each name appears once. BR-006's Copy section still lists prices, but the layout overrides it.
 - **Stock (open, from the brief).** The Training Shirt and the Muki Muki Pump Cover (Black) show 0 or negative stock in Shopify.
 - **Hook claim (open, from the brief).** The hook implies repeat purchase, so back it with the returning-customer rate before the ad goes live.
